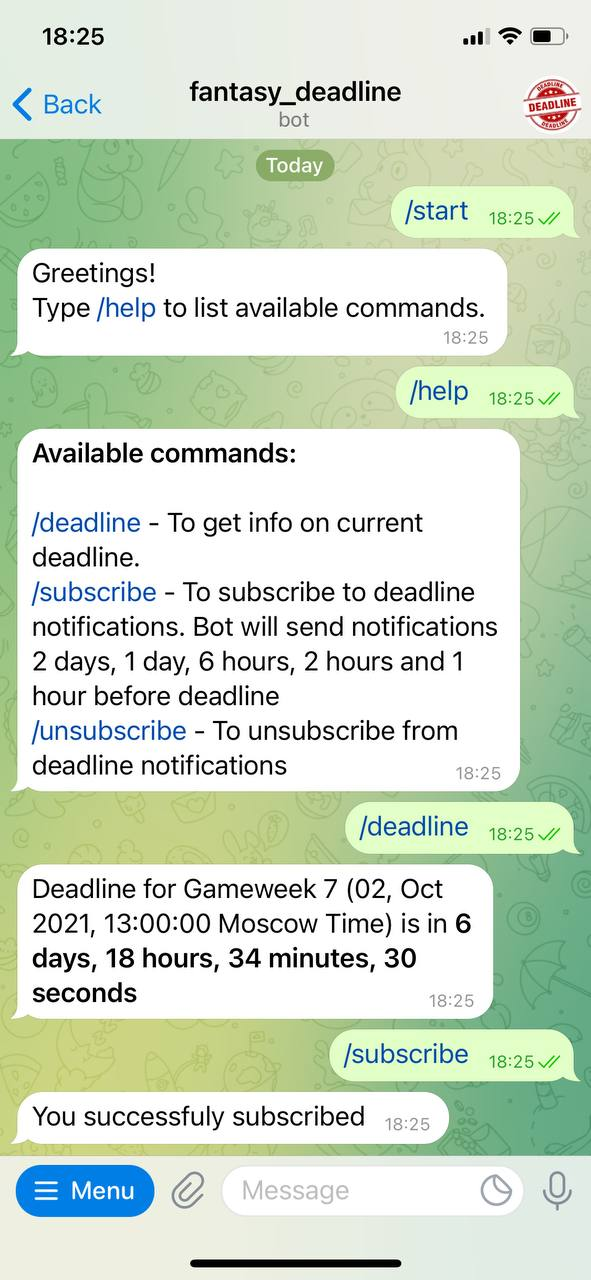
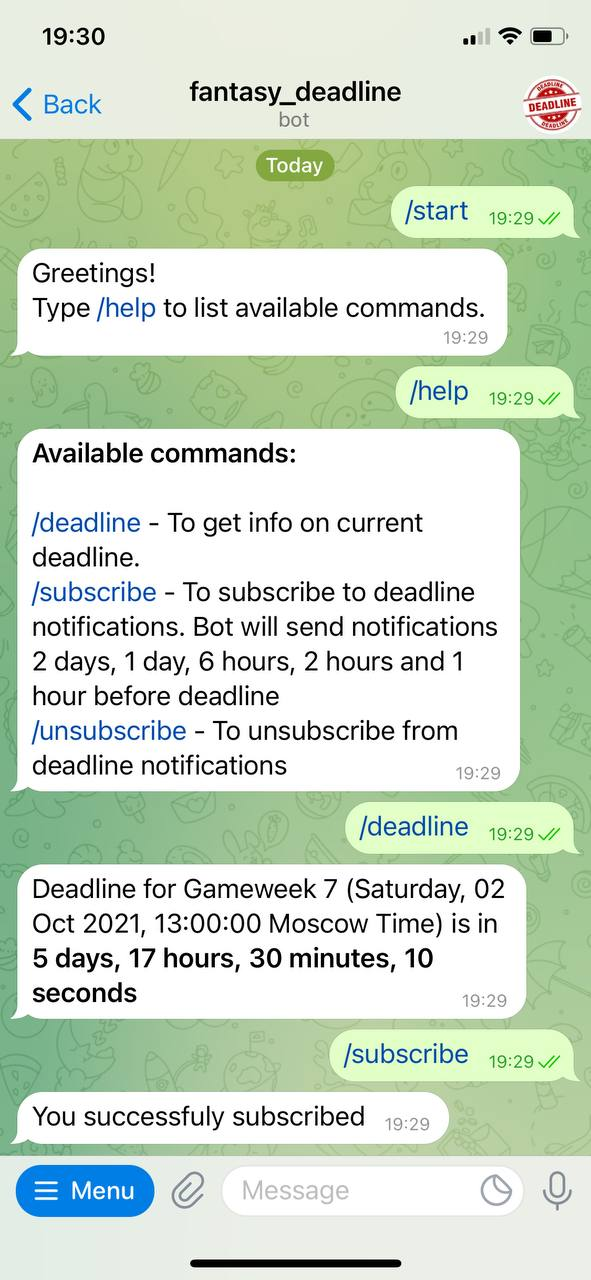
add weekday formatting

diff --git a/update_deadline.py b/update_deadline.py
@@ -12,6 +12,6 @@ def update_deadline(gameweeks, curr_minute):
             hours = get_difference_in_hours(deadline, curr_date) + 1
             if hours in [48, 24, 6, 2, 1] and deadline.minute == curr_minute:
                 msg = "Deadline for {} ({} Moscow Time) is in *{}*".format(name, utc_to_local(deadline).strftime(
-                    '%d, %b %Y, %H:%M:%S'), parse_seconds((deadline - curr_date).total_seconds()))
+                    '%A, %d %b %Y, %H:%M:%S'), parse_seconds((deadline - curr_date).total_seconds()))
             break
     return msg

diff --git a/bot.py b/bot.py
@@ -45,7 +45,7 @@ def send_current_deadline(message):
     for deadline, name in gameweeks:
         if (deadline - curr_date).total_seconds() > 0:
             msg = "Deadline for {} ({} Moscow Time) is in *{}*".format(name, utc_to_local(deadline).strftime(
-                '%d, %b %Y, %H:%M:%S'), parse_seconds((deadline - curr_date).total_seconds()))
+                '%A, %d %b %Y, %H:%M:%S'), parse_seconds((deadline - curr_date).total_seconds()))
             break
     if msg != '':
         bot.send_message(message.chat.id, msg, parse_mode='Markdown')
